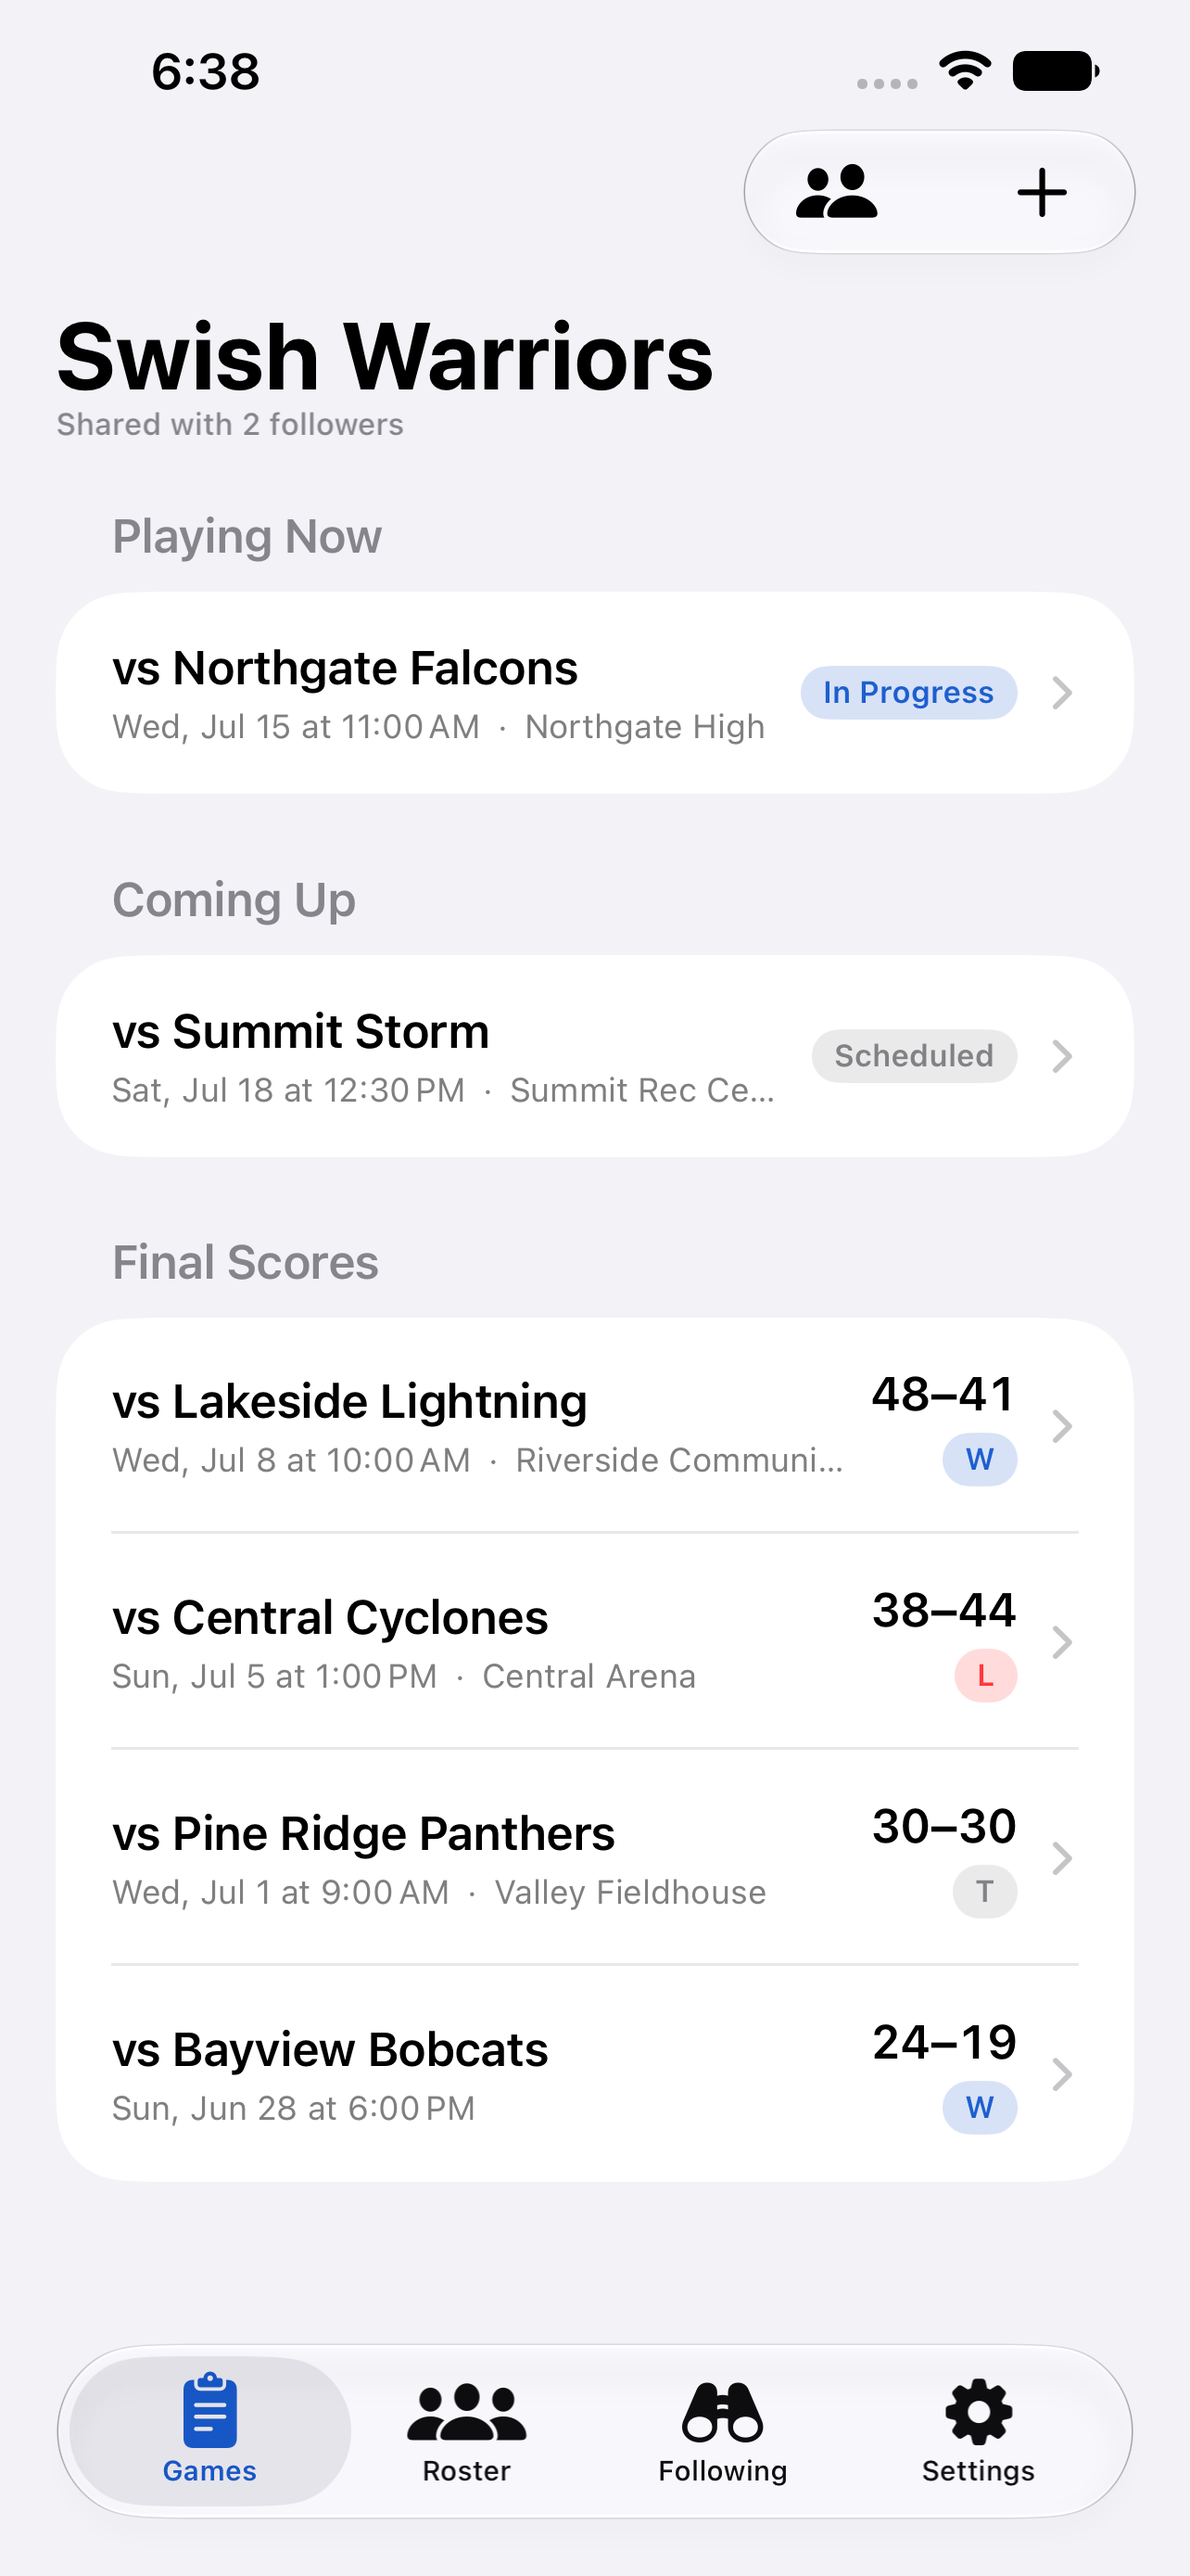
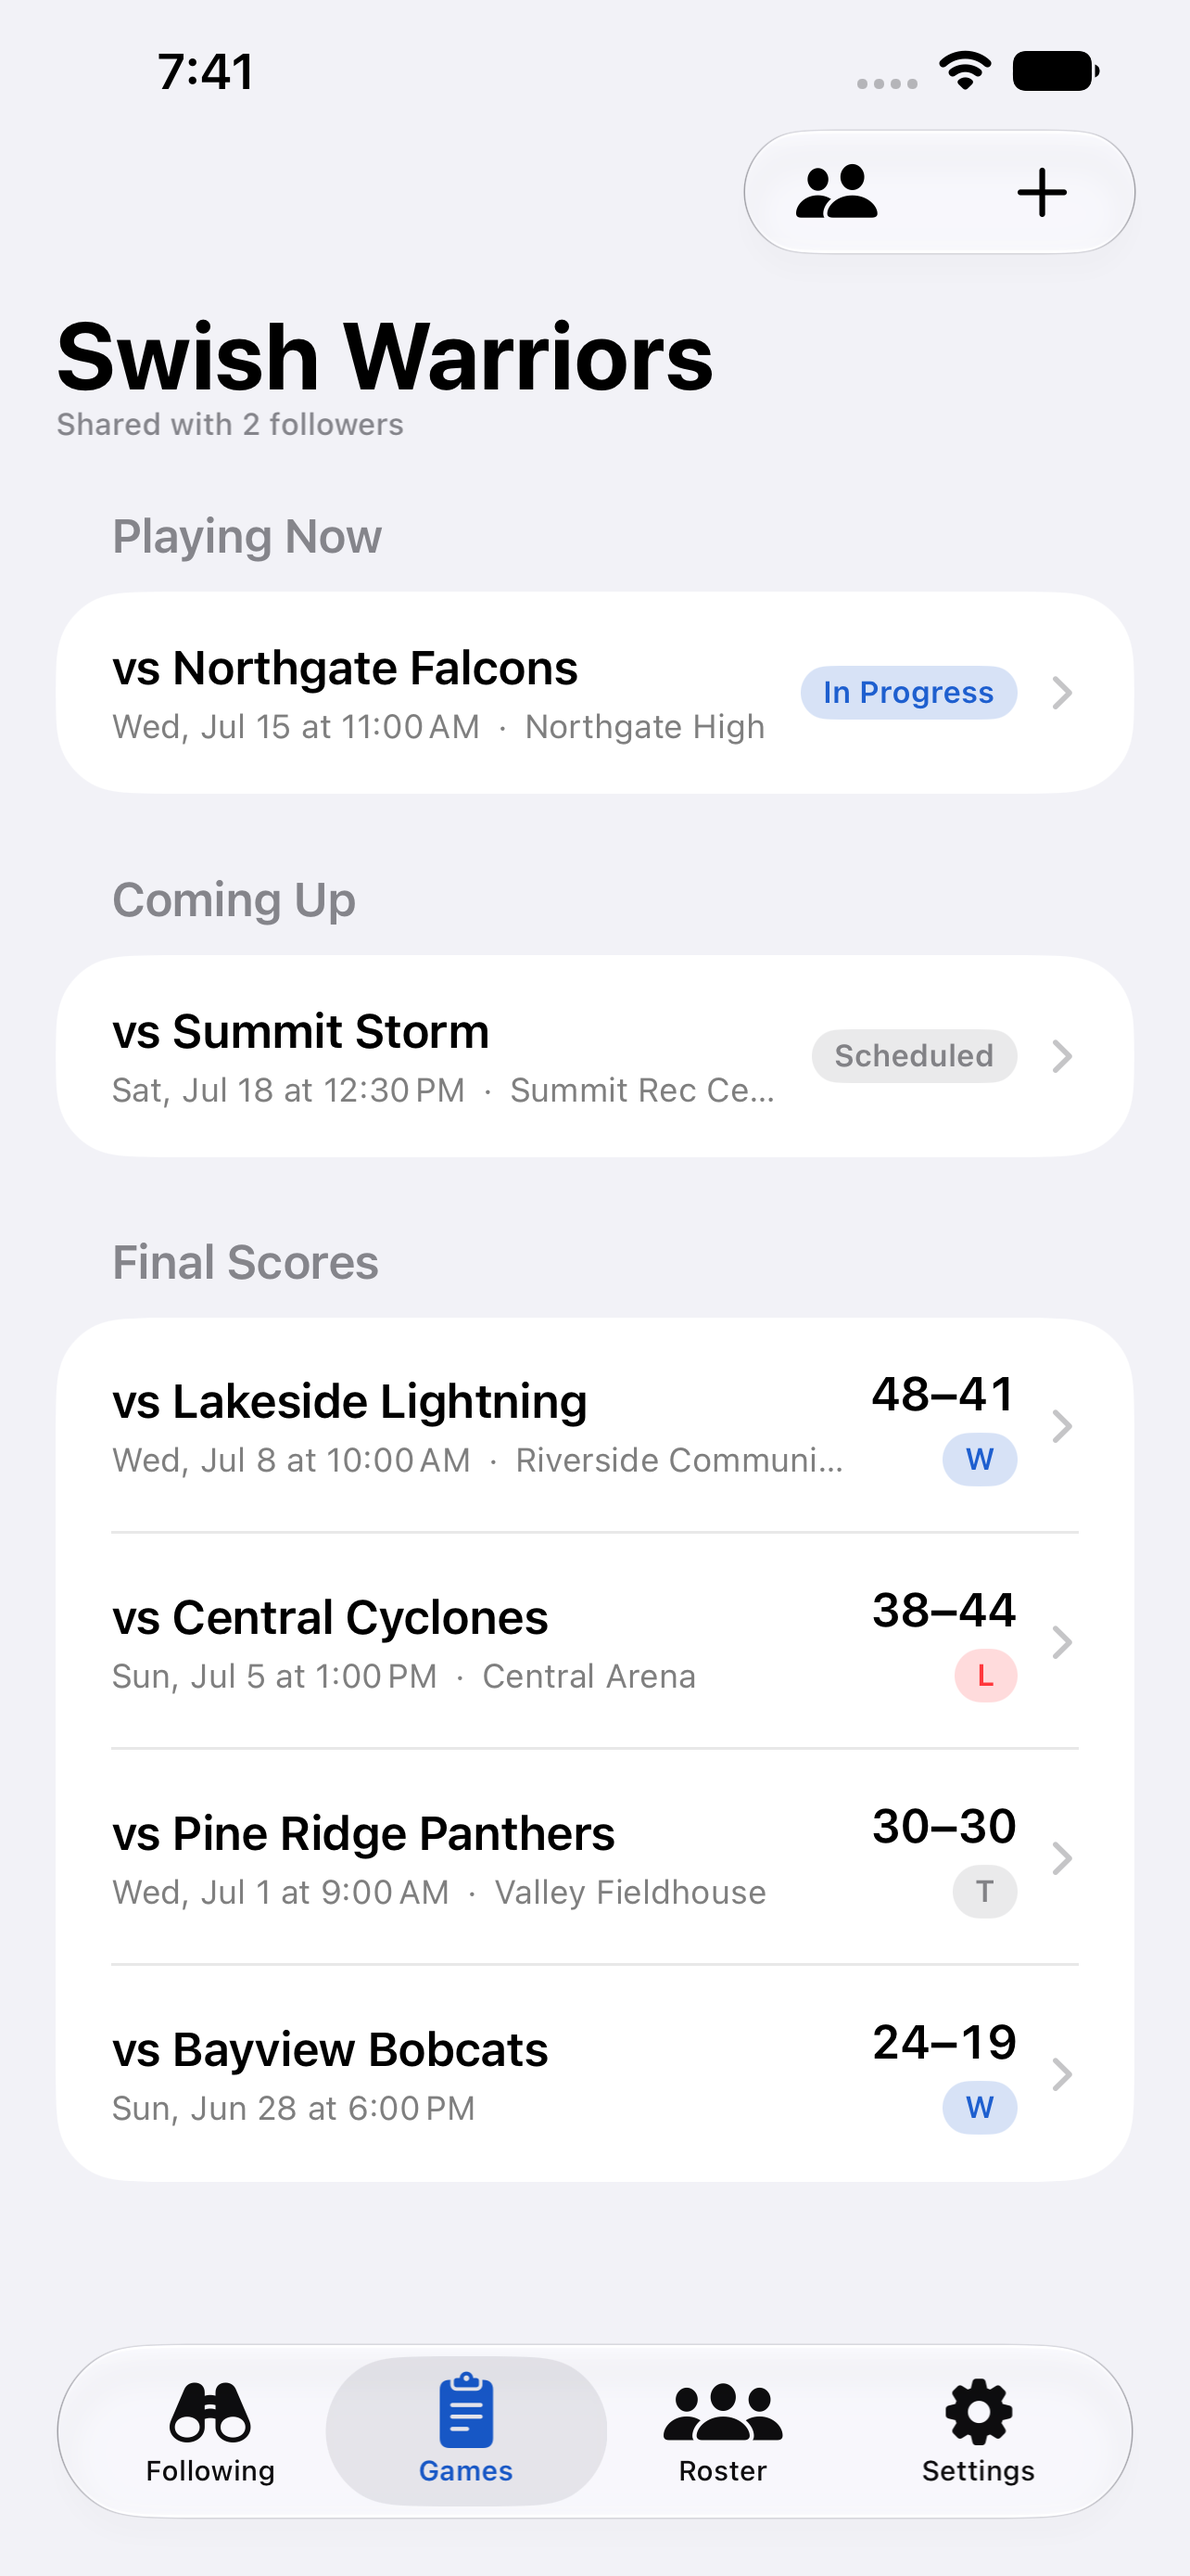
Put Following first in the tab bar
Closes #189 · opens the v1.9 train (MARKETING_VERSION 1.8 → 1.9)

For someone who both owns a team and follows one, the tab they open the app for
during a game someone else is tracking was third.

Low blast radius, because the Following tab only exists when you actually
follow someone: a tracker with no followed teams sees no change at all, and a
follower-only user already had Following leftmost — this makes the position
consistent for everyone who has the tab.

The cost, named rather than glossed: an owner-and-follower whose main job is
tracking loses Games as their leftmost tab.

The default tab is deliberately unchanged. `selectedTab` stays `.games` for
anyone who owns a team; only a pure follower is pushed to `.following` (#115).
Leftmost and default-selected are different questions — a tracker opening the
app should still land on their own games, which is why the capture shows
Following on the left with Games selected.

Every curated screenshot carries the tab bar, so all of them are refreshed.

Claude-Session: https://claude.ai/code/session_01XKw3Fyr61m8RtwfRppQofX

diff --git a/CourtsideHoopStats/ContentView.swift b/CourtsideHoopStats/ContentView.swift
@@ -13,6 +13,22 @@ struct ContentView: View {
 
     var body: some View {
         TabView(selection: $selectedTab) {
+            // **First**, for anyone who has it (#189). The tab only exists
+            // when you actually follow someone (#57) — a tracker running only
+            // their own team never sees it — so putting it left costs nothing
+            // for them, and it matches what a follower-only person already
+            // sees, where Following is the first tab by default.
+            //
+            // The trade: someone who both owns and follows loses Games as
+            // their leftmost tab. Worth it because the reason to open the app
+            // as a follower is time-sensitive (a game happening now), while
+            // the reason to open it as a tracker is deliberate.
+            if !store.followedTeams.isEmpty {
+                FollowingView()
+                    .tabItem { Label("Following", systemImage: "binoculars") }
+                    .tag(Tab.following)
+            }
+
             // Hidden for a pure follower (#115) — someone who only watches
             // others' teams and has never touched their own local, blank
             // default team. Reappears the moment they add a player or a game.
@@ -24,14 +40,6 @@ struct ContentView: View {
                 RosterView()
                     .tabItem { Label("Roster", systemImage: "person.3.fill") }
                     .tag(Tab.roster)
-            }
-
-            // Only for people actually following someone (#57) — a tracker
-            // running their own team should never see an empty extra tab.
-            if !store.followedTeams.isEmpty {
-                FollowingView()
-                    .tabItem { Label("Following", systemImage: "binoculars") }
-                    .tag(Tab.following)
             }
 
             SettingsView()
@@ -46,6 +54,11 @@ struct ContentView: View {
         .environment(\.teamKitColor, store.team.kitColor)
         // A pure follower reopening the app has no Games/Roster tabs, so start
         // them on Following rather than a tab that no longer exists (#115).
+        //
+        // Note this is deliberately *not* "start on the first tab". Following
+        // is leftmost for anyone who has it (#189), but a tracker who also
+        // follows should still land on their own games — leftmost and
+        // default-selected are different questions.
         .onAppear {
             if store.isPureFollower { selectedTab = .following }
         }
